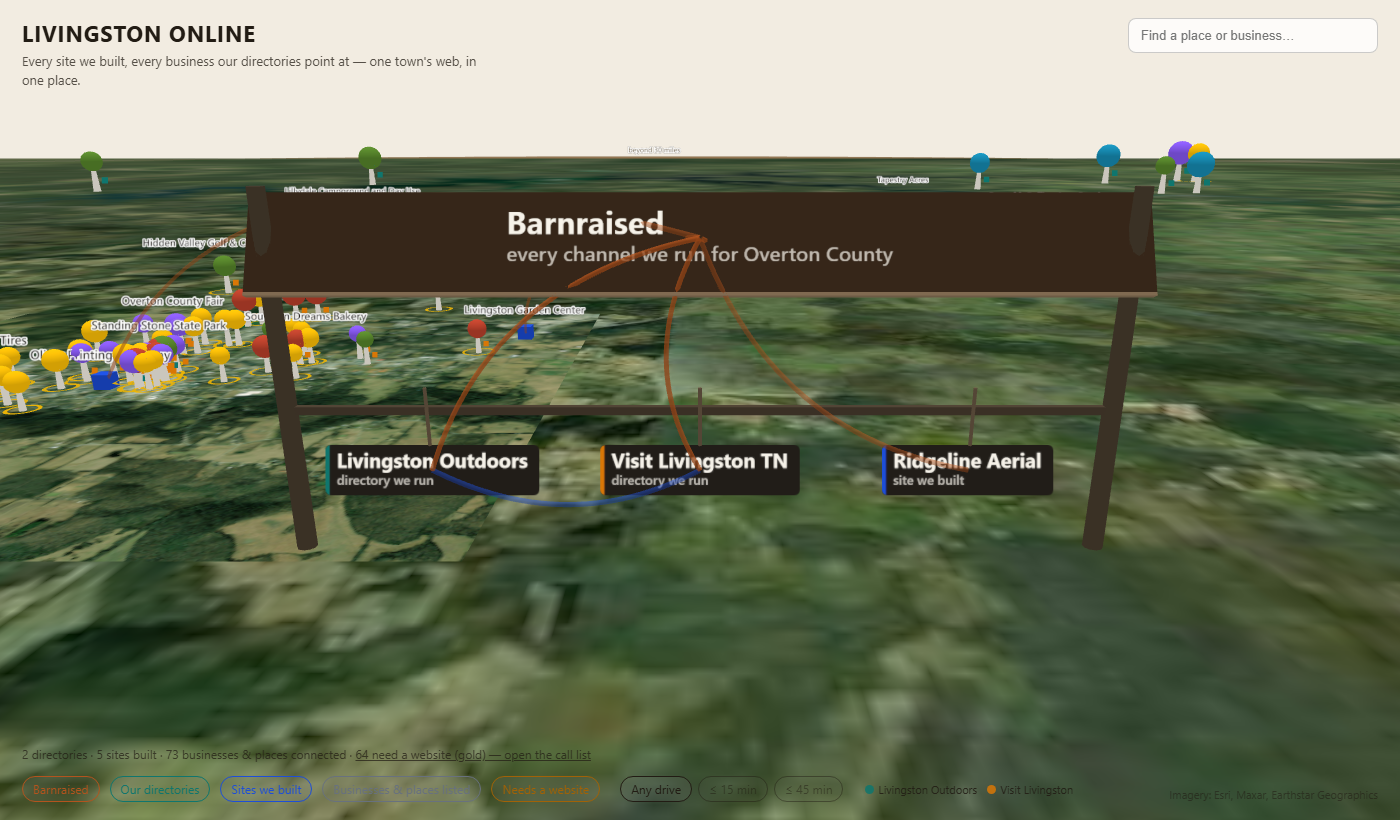
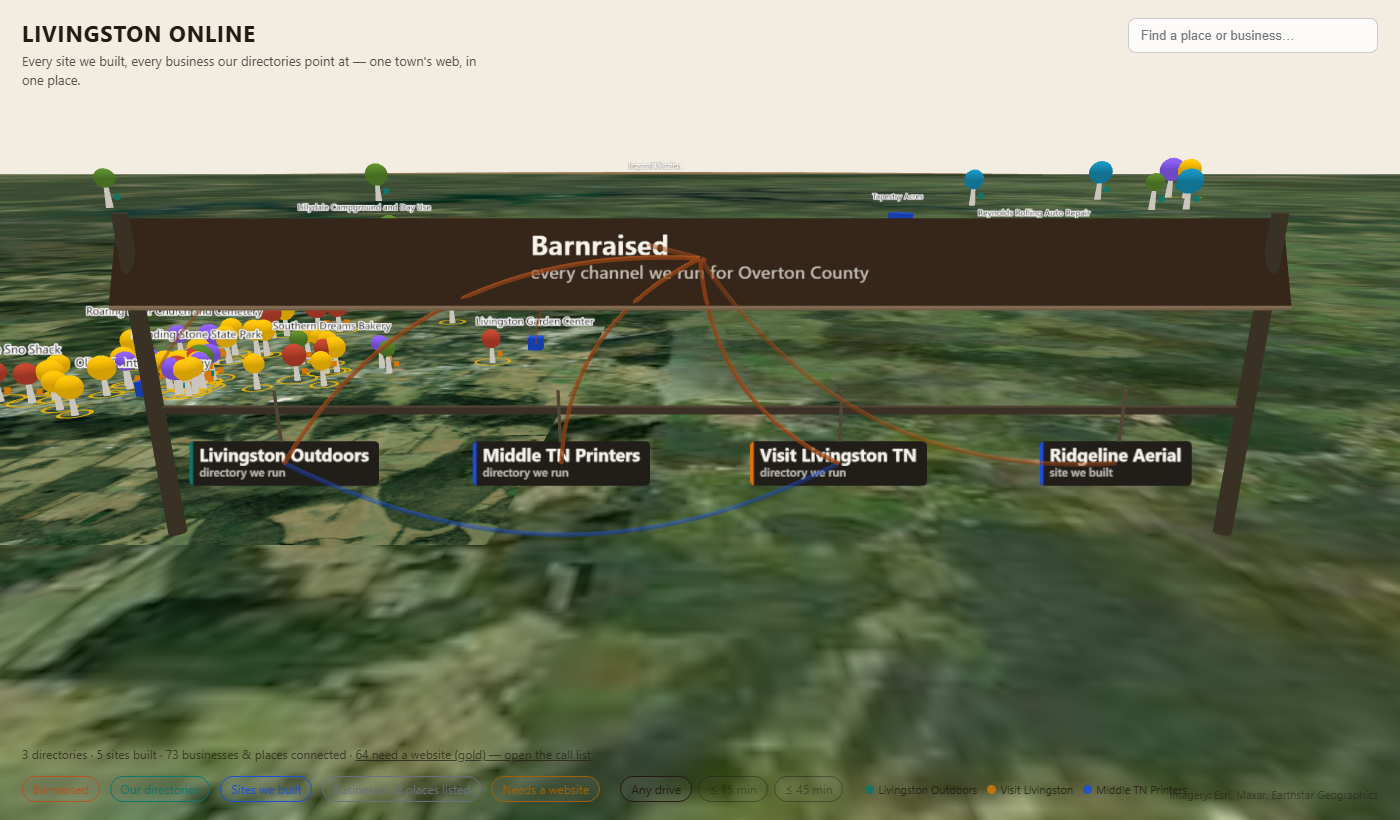
Restore Middle TN Printers as a county-filtered directory
Steve: "include middletn printer." It is back on the sign as a full
directory node, but the source read is now filtered by county
(build_network.in_scope): only its Overton County shops land on the map,
which today means Oliver Printing alone. The ten Nashville, Franklin,
Gallatin, Clarksville, Cookeville and La Vergne printers stay off, since
they are not businesses this map is about. If the directory adds another
Livingston printer it appears on its own with no code change.

verify.py applies the same predicate rather than counting raw rows, so
the listing-edge check stays honest: 76 edges against outdoors 40 +
visit 35 + printers 1.

81 nodes / 83 edges -> 82 / 85. Rail spacing widened to 84 units so four
placards keep clear gaps, and the default-camera frame widened to match
the wider sign. Verify 20/20.

diff --git a/src/app.js b/src/app.js
@@ -76,6 +76,7 @@ function setCrm(id, patch) {
 const DIR_COLORS = {
   'livingston-outdoors': '#0f766e',
   'visit-livingston-tn': '#d97706',
+  'middle-tn-printers': '#1d4ed8',
 };
 
 // Radius (scene units) of the regional map edge; recomputed from region.json
@@ -161,7 +162,7 @@ function heightFor(n) {
 // 85–168° hold no out-of-town places, so the plot is clear. Only web-only
 // entities live here; anything with a storefront is pinned at its real
 // address on the map instead.
-const CAMPUS = { cx: 250, cz: 176, colGap: 72 };
+const CAMPUS = { cx: 250, cz: 176, colGap: 84 };
 
 // Sign geometry, in scene units off the table.
 const SIGN = { boardY: 84, boardH: 26, railY: 40, placardY: 24, postH: 98, pad: 42,
@@ -873,7 +874,7 @@ function applyAll() {
 // plus the sign standing off to the southeast. A fixed camera framed both on a
 // wide desktop window and pushed the sign clean off the right edge on a phone,
 // where the horizontal field is roughly a third as wide.
-const FRAME = { x0: -270, x1: 375, z0: -300, z1: 240 };
+const FRAME = { x0: -270, x1: 450, z0: -300, z1: 240 };
 
 function defaultCamera(ms) {
   if (state.mode === 'city') {
@@ -1073,7 +1074,7 @@ function esc(s) {
 }
 
 const TYPE_LABEL = { hub: 'The studio', directory: 'Our directory', built: 'Built by Barnraised', listed: 'Listed business / place', prospect: 'Needs a website' };
-const DIR_NAMES = { 'livingston-outdoors': 'Livingston Outdoors', 'visit-livingston-tn': 'Visit Livingston TN' };
+const DIR_NAMES = { 'livingston-outdoors': 'Livingston Outdoors', 'visit-livingston-tn': 'Visit Livingston TN', 'middle-tn-printers': 'Middle TN Printers' };
 
 function openPanel(n) {
   const p = document.getElementById('panel');

diff --git a/index.html b/index.html
@@ -28,6 +28,7 @@
   <span class="dir-key" aria-label="Directory colors">
     <span class="dir-tag"><span class="dir-dot" style="background:#0f766e"></span>Livingston Outdoors</span>
     <span class="dir-tag"><span class="dir-dot" style="background:#d97706"></span>Visit Livingston</span>
+    <span class="dir-tag"><span class="dir-dot" style="background:#1d4ed8"></span>Middle TN Printers</span>
   </span>
 </div>
 
@@ -79,6 +80,6 @@
 <!-- Design locked 2026-08-12: force / dawn / buildings / focus / full.
      To remix, restore the selector include from vendor/ (see git history). -->
 <script src="vendor/3d-force-graph.min.js?v=19"></script>
-<script type="module" src="src/app.js?v=45"></script>
+<script type="module" src="src/app.js?v=47"></script>
 </body>
 </html>

diff --git a/scripts/build_network.py b/scripts/build_network.py
@@ -1,6 +1,6 @@
 """Build network.json for the Livingston Network Map.
 
-Reads the two directory data files plus the hardcoded built-sites roster,
+Reads the three directory data files plus the hardcoded built-sites roster,
 dedupes places that appear in more than one directory, and emits
 data/network.json (nodes + edges) and reports/network-stats.json.
 
@@ -16,6 +16,16 @@ from geo import to_local
 ROOT = Path(__file__).resolve().parent.parent
 OUTDOORS = Path(r"C:\dev\livingston-outdoors\data\livingston-outdoors.json")
 VISIT = Path(r"C:\dev\visit-livingston\data\places.json")
+PRINTERS = Path(r"C:\dev\mtn-printers\data\mtn-printers.json")
+
+
+# Middle TN Printers covers the whole midstate, but this map is about one
+# county: only its Overton County shops belong here. Today that is Oliver
+# Printing; if the directory adds another Livingston printer it appears on
+# its own. The Nashville / Franklin / Gallatin / Clarksville / Cookeville /
+# La Vergne shops are deliberately not on this map.
+def in_scope(city: str, county: str) -> bool:
+    return (county or "").strip().lower() == "overton"
 
 # Approximate drive minutes from the Livingston square, by city, for sources
 # that carry no routed time. Stylized ring placement only — not navigation.
@@ -45,6 +55,8 @@ BUILT_SITES = [
      "Photo-led directory of 40 outdoor places within 45 minutes of Livingston."),
     ("visit-livingston-tn", "Visit Livingston TN", "https://visitlivingstontn.com", "Livingston", "Overton", "directory",
      "First-timer's editorial guide to Livingston and Overton County — 29 places."),
+    ("middle-tn-printers", "Middle TN Printers", "https://middletnprinters.com", "Livingston", "Overton", "directory",
+     "Directory of eleven Middle Tennessee commercial printers. Only its Overton County shop is on this map."),
     ("livingston-garden-center", "Livingston Garden Center", "https://livingstongardencenter.com", "Livingston", "Overton", "built",
      "Client build — pickup-ordering garden center site, order by 5 PM for next-day pickup."),
     ("tapestry-acres", "Tapestry Acres", "https://tapestryacres.com", "Monroe", "Overton", "built",
@@ -86,7 +98,8 @@ def main() -> int:
             "blurb": blurb, "listed_in": [],
         })
 
-    DIRECTORY_IDS = ("livingston-outdoors", "visit-livingston-tn")
+    DIRECTORY_IDS = ("livingston-outdoors", "visit-livingston-tn",
+                     "middle-tn-printers")
     for site_id in DIRECTORY_IDS:
         edges.append({"source": BR, "target": site_id, "kind": "operates"})
     for nid, *_ in [(r[0],) for r in BUILT_SITES]:
@@ -147,6 +160,16 @@ def main() -> int:
                     p.get("what_it_is") or p.get("blurb", ""),
                     p.get("category", "town"))
 
+    printers = json.loads(PRINTERS.read_text(encoding="utf-8"))
+    printers_in_scope = 0
+    for pr in printers:
+        if not in_scope(pr.get("city", ""), pr.get("county", "")):
+            continue
+        printers_in_scope += 1
+        add_listing("middle-tn-printers", pr["name"], pr["url"], pr.get("city", ""),
+                    pr.get("county", ""), city_minutes(pr.get("city", "")),
+                    pr.get("blurb", ""), "printing")
+
     # Bearing assignment: spread nodes inside their county wedge, ordered by id
     # so the layout is deterministic run-to-run.
     from collections import defaultdict
@@ -177,7 +200,7 @@ def main() -> int:
                 n["geo_method"] = hit["method"]
                 geo_ok += 1
 
-    net = {"generated_from": [str(OUTDOORS), str(VISIT)],
+    net = {"generated_from": [str(OUTDOORS), str(VISIT), str(PRINTERS)],
            "nodes": nodes, "edges": edges}
     out = ROOT / "data" / "network.json"
     out.parent.mkdir(parents=True, exist_ok=True)
@@ -190,7 +213,9 @@ def main() -> int:
         "edges_total": len(edges),
         "edges_by_kind": {k: sum(1 for e in edges if e["kind"] == k)
                           for k in ("operates", "built", "lists", "sister")},
-        "source_counts": {"outdoors": len(outdoors), "visit": len(visit)},
+        "source_counts": {"outdoors": len(outdoors), "visit": len(visit),
+                          "printers": len(printers)},
+        "printers_in_scope": printers_in_scope,
         "deduped": dedup,
         "missing_url": [n["id"] for n in nodes if not n["url"]],
         "missing_drive_min": [n["id"] for n in nodes if n["drive_min"] is None],

diff --git a/scripts/verify.py b/scripts/verify.py
@@ -9,10 +9,13 @@ import re
 import sys
 from pathlib import Path
 
+from build_network import in_scope
+
 ROOT = Path(__file__).resolve().parent.parent
 SOURCES = {
     "outdoors": Path(r"C:\dev\livingston-outdoors\data\livingston-outdoors.json"),
     "visit": Path(r"C:\dev\visit-livingston\data\places.json"),
+    "printers": Path(r"C:\dev\mtn-printers\data\mtn-printers.json"),
 }
 
 results = []
@@ -40,9 +43,17 @@ def main() -> int:
     nodes, edges = net["nodes"], net["edges"]
 
     # 1-3: node counts derive from the live source files.
-    src_counts = {k: (len(json.loads(p.read_text(encoding="utf-8"))["places"])
-                      if k == "visit" else
-                      len(json.loads(p.read_text(encoding="utf-8"))))
+    def rows(key, path):
+        raw = json.loads(path.read_text(encoding="utf-8"))
+        if key == "visit":
+            return raw["places"]
+        return raw
+
+    # Middle TN Printers is midstate-wide; only its Overton County shops are on
+    # this map, so the expected count applies build_network.in_scope, not len().
+    src_counts = {k: (sum(1 for r in rows(k, p)
+                          if in_scope(r.get("city", ""), r.get("county", "")))
+                      if k == "printers" else len(rows(k, p)))
                   for k, p in SOURCES.items()}
     listing_edges = [e for e in edges if e["kind"] == "lists"]
     expected_listings = sum(src_counts.values())

diff --git a/reports/verify.md b/reports/verify.md
@@ -1,7 +1,7 @@
 # Verify — 20/20 passing
 
-- PASS — listing edges match source rows · 75 lists edges vs {'outdoors': 40, 'visit': 35} = 75
-- PASS — node total = listed + our properties · 81 = 73 + 8
+- PASS — listing edges match source rows · 76 lists edges vs {'outdoors': 40, 'visit': 35, 'printers': 1} = 76
+- PASS — node total = listed + our properties · 82 = 73 + 9
 - PASS — every node has url · missing: none
 - PASS — every node has blurb · missing: none
 - PASS — every node has drive_min · missing: none
@@ -12,7 +12,7 @@
 - PASS — zero external asset references in index.html · all local
 - PASS — every referenced local asset exists · all present
 - PASS — label contrast >= 4.5 in every palette · {'midnight': 17.02, 'dawn': 14.36, 'print': 16.88}
-- PASS — total payload under 8 MB · 7248 KB
+- PASS — total payload under 8 MB · 7249 KB
 - PASS — satellite imagery + bounds exist · data/satellite.jpg + data/satellite.json
 - PASS — visitors.json covers owned domains · 12 domains, 12 with data
 - PASS — prospect ids unique · 42 rows, 42 unique
